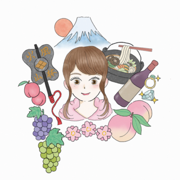
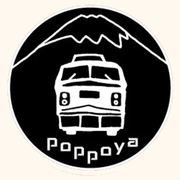
アプリアイコンを「ぽっぽや」の公式ロゴに変更
富士山と電車のイラストの円形ロゴを、PWAの各アイコンサイズ
(icon-192/512, apple-touch-icon, favicon)に切り出して差し替えた。
apple-touch-iconは透過を避けるためテーマカラーの背景で合成している。

diff --git a/index.html b/index.html
@@ -11,7 +11,7 @@
     <meta name="apple-mobile-web-app-status-bar-style" content="default" />
     <meta name="apple-mobile-web-app-title" content="宿ぽっぽや" />
     <link rel="apple-touch-icon" href="/apple-touch-icon.png" />
-    <link rel="icon" type="image/png" href="/icon-192.png" />
+    <link rel="icon" type="image/png" href="/favicon.png" />
   </head>
   <body>
     <div id="root"></div>
